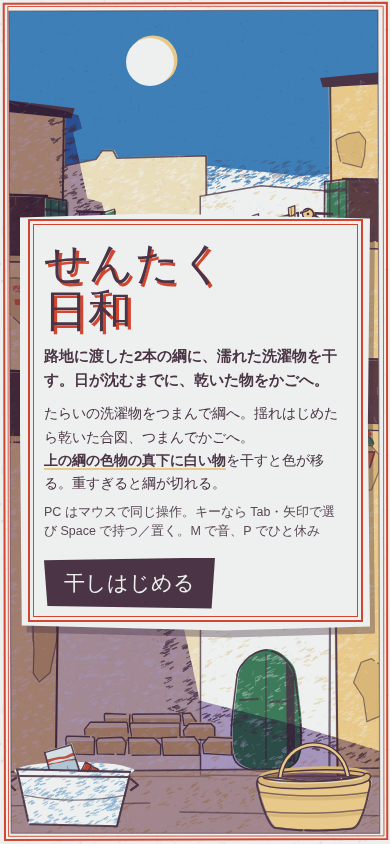
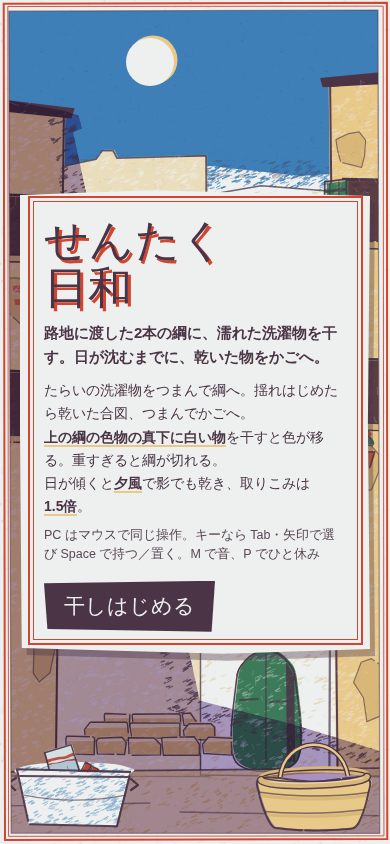
arcade: 008 差し戻し修正（2回目の監査中）
Claude-Session: https://claude.ai/code/session_01QkUvG7rhwuqzh5G9T4Jq1S

Changed region(s): [[0.0308, 0.2156, 0.9846, 0.8009], [0.7385, 0.8934, 0.8923, 0.9242]]

diff --git a/arcade/games/008-alley-laundry/index.html b/arcade/games/008-alley-laundry/index.html
@@ -29,6 +29,8 @@ canvas#c{position:fixed;inset:0;width:100%;height:100%;display:block;touch-actio
 #scoreW .tag{padding:12px 16px 11px 15px;min-width:118px}
 #cnt{font-size:13px;line-height:1.2;font-weight:700;font-variant-numeric:tabular-nums;white-space:nowrap}
 #score{font-family:var(--head);font-size:30px;line-height:1.05;font-variant-numeric:tabular-nums;letter-spacing:-.01em}
+#eveB{display:inline-block;margin-top:4px;font-family:var(--head);font-size:13px;color:var(--shiro);background:var(--sumire);padding:2px 8px 3px;transform:rotate(-2deg)}
+#eveB[hidden]{display:none}
 #score small{font-family:var(--body);font-size:14px;font-weight:700;margin-left:3px}
 #hintW{transform:rotate(-1deg);transition:opacity .25s;max-width:min(250px,64vw)}
 #hintW.off{opacity:0}
@@ -66,7 +68,8 @@ canvas#c{position:fixed;inset:0;width:100%;height:100%;display:block;touch-actio
 .best{font-size:14px;font-weight:700;font-variant-numeric:tabular-nums}
 #rTitle{font-family:var(--head);font-size:28px;line-height:1.15;text-shadow:2px 2px 0 var(--tomato)}
 #rWhy{font-size:13.5px;margin-top:6px;line-height:1.5}
-#pile{display:block;width:100%;height:170px;margin-top:6px}
+#pile{display:block;width:100%;height:190px;margin-top:6px}
+body.wide #pile{height:170px}
 #rScore{font-family:var(--head);font-size:46px;line-height:1;font-variant-numeric:tabular-nums}
 #rScore small{font-family:var(--body);font-size:17px;font-weight:700;margin-left:4px}
 #rList{font-size:13.5px;line-height:1.6;margin-top:6px;font-variant-numeric:tabular-nums}
@@ -82,7 +85,7 @@ body.wide .cols{display:grid;grid-template-columns:1fr 1fr;gap:4px 20px;align-it
 <canvas id="c" aria-label="路地の物干し"></canvas>
 <div id="hud" hidden>
   <div class="tagw" id="scoreW"><svg class="pin" style="left:54px" viewBox="0 0 9 22"><path d="M1.2 1 7.6 .6 8 21 1 21.4Z" fill="#e8c98a" stroke="#4a3446" stroke-width="1.3"/><path d="M4.5 1.5V20.5" stroke="#4a3446" stroke-width=".8" opacity=".7"/><path d="M.5 9q4 2.6 8 0" stroke="#4a3446" stroke-width="1.4" fill="none"/></svg>
-    <div class="tag"><div id="cnt">取りこみ 0まい</div><div id="score">0<small>てん</small></div></div></div>
+    <div class="tag"><div id="cnt">取りこみ 0まい</div><div id="score">0<small>てん</small></div><div id="eveB" hidden>夕方 ×1.5</div></div></div>
   <div class="tagw off" id="hintW"><div class="tag" id="hint"></div></div>
   <div class="tagw" id="muteW"><button class="tbtn" id="muteB" aria-label="音を消す（M）">おと</button></div>
   <div class="tagw" id="pauseW"><svg class="pin" style="left:36px" viewBox="0 0 9 22"><path d="M1 .8 7.8 1 7.4 21.2 1.3 21Z" fill="#e8c98a" stroke="#4a3446" stroke-width="1.3"/><path d="M4.5 1.5V20.5" stroke="#4a3446" stroke-width=".8" opacity=".7"/><path d="M.5 9q4 2.6 8 0" stroke="#4a3446" stroke-width="1.4" fill="none"/></svg><button class="tbtn" id="pauseB" aria-label="ひと休み（P）">ひと休み</button></div>
@@ -95,7 +98,7 @@ body.wide .cols{display:grid;grid-template-columns:1fr 1fr;gap:4px 20px;align-it
       <h1 class="logo">せんたく<br>日和</h1>
       <p class="lead">路地に渡した2本の綱に、濡れた洗濯物を干す。日が沈むまでに、乾いた物をかごへ。</p>
     </div><div>
-      <p class="how">たらいの洗濯物をつまんで綱へ。揺れはじめたら乾いた合図、つまんでかごへ。<br><b>上の綱の色物の真下に白い物</b>を干すと色が移る。重すぎると綱が切れる。</p>
+      <p class="how">たらいの洗濯物をつまんで綱へ。揺れはじめたら乾いた合図、つまんでかごへ。<br><b>上の綱の色物の真下に白い物</b>を干すと色が移る。重すぎると綱が切れる。<br>日が傾くと<b>夕風</b>で影でも乾き、取りこみは<b style="white-space:nowrap">1.5倍</b>。</p>
       <p class="keys">PC はマウスで同じ操作。キーなら Tab・矢印で選び Space で持つ／置く。M で音、P でひと休み</p>
     </div></div>
     <div class="row"><button class="go" id="startB">干しはじめる</button><span class="best" id="tBest"></span></div>
@@ -134,7 +137,10 @@ const SIM = (() => {
     { x1: 84, y1: 222, x2: 308, y2: 210 },
     { x1: 80, y1: 400, x2: 312, y2: 393 },
   ];
-  const LIM = 10.5;        // 1本の綱が耐えられる濡れ物の重さ
+  const LIM = 8.8;         // 1本の綱が耐えられる濡れ物の重さ
+  const EVE = 80;          // 夕方（夕風・夕方の取り込み）が始まる時刻
+  const TUB_END = 92;      // これより後はたらいが空（最後の取り込みに集中）
+  const EVE_MUL = 1.5;     // 夕方に取り込んだ物の点の倍率（切り上げ）
   const RESTRING = 10;     // 切れた綱の張り直し（秒）
   const PEN_GAP = 1.2;     // 操作と無関係の罰どうしの間（秒）
   const KINDS = {
@@ -185,7 +191,7 @@ const SIM = (() => {
   function create(seed) {
     const S = { r: (seed % 2147483646) + 1, t: 0, dur: DUR, nid: 0, lastKinds: [], over: false, endReason: "",
       ropes: [{ items: [], broken: false, restring: 0, strain: 0 }, { items: [], broken: false, restring: 0, strain: 0 }],
-      tub: { queue: [], wait: 0 }, held: null, score: 0, combo: 0, delivered: [], fallen: 0, blown: 0, stainedN: 0,
+      tub: { queue: [], wait: 0, empty: false }, eve: false, held: null, score: 0, combo: 0, delivered: [], fallen: 0, blown: 0, stainedN: 0,
       pigeons: [], pigT: 9, lastPen: -9, grace: 0, ev: [], log: [], quiet: false };
     S.tub.queue.push(newItem(S), newItem(S));
     return S;
@@ -238,7 +244,7 @@ const SIM = (() => {
   function pickTub(S) {
     if (S.held || S.over || S.tub.wait > 0 || !S.tub.queue.length) return null;
     const it = S.tub.queue.shift(); it.from = { tub: true }; S.held = it; S.tub.wait = 0.45;
-    while (S.tub.queue.length < 2) S.tub.queue.push(newItem(S));
+    while (!S.tub.empty && S.tub.queue.length < 2) S.tub.queue.push(newItem(S));
     emit(S, { type: "pick", id: it.id, tub: true });
     return it;
   }
@@ -269,16 +275,19 @@ const SIM = (() => {
   function deliver(S) {
     const it = S.held; if (!it || it.wet > 0) return false;
     S.held = null;
-    const pts = it.stained ? 0 : it.pt;
+    const evening = S.t >= EVE;
+    const pts = it.stained ? 0 : evening ? Math.ceil(it.pt * EVE_MUL) : it.pt;
     S.score += pts; S.delivered.push(it);
     if (it.stained) S.combo = 0; else S.combo++;
-    emit(S, { type: "deliver", id: it.id, pts, stained: it.stained, kind: it.kind });
+    emit(S, { type: "deliver", id: it.id, pts, stained: it.stained, kind: it.kind, eve: evening && !it.stained });
     // 5枚続けて色移りなし → おばあさんの拍手（続くほど大きい）
     if (!it.stained && S.combo > 0 && S.combo % 5 === 0) { const b = S.combo / 5 + 1; S.score += b; emit(S, { type: "grandma", n: S.combo, bonus: b }); }
     return true;
   }
   // 海からの風は時間とともに強まる: よく乾くが、乾いた物を放っておくと飛ばされやすい
   function windDry(p) { return 0.5 + 2.0 * p; }
+  // 夕風: 日なたが細くなる代わりに、影の中でも風で乾く（終盤ほど速い）
+  function eveK(t) { return clamp((t - EVE) / (DUR - EVE), 0, 1); }
   function flutterTime(p) { return 9 - 4.5 * p; }
 
   function snap(S, r) {
@@ -297,6 +306,9 @@ const SIM = (() => {
     S.t += dt;
     const p = clamp(S.t / DUR, 0, 1);
     if (S.tub.wait > 0) S.tub.wait -= dt;
+    if (!S.eve && S.t >= EVE) { S.eve = true; emit(S, { type: "evening" }); }
+    // たらいが空になる（まだ手に取っていない物は今日の分はおしまい。戻した物は残す）
+    if (!S.tub.empty && S.t >= TUB_END) { S.tub.empty = true; S.tub.queue = S.tub.queue.filter((it) => it.from); emit(S, { type: "tubEmpty" }); }
     for (let r = 0; r < 2; r++) {
       const R = S.ropes[r];
       if (R.broken) { R.restring -= dt; if (R.restring <= 0) { R.broken = false; emit(S, { type: "restrung", rope: r }); } continue; }
@@ -304,7 +316,8 @@ const SIM = (() => {
         const it = R.items[i];
         if (it.wet > 0) {
           const sun = sunFrac(S, it);
-          it.wet -= dt * (1 / it.dry) * (0.2 + 0.8 * sun) * windDry(p) * (it.pegs < 2 ? 0.45 : 1);
+          const shade = S.t >= EVE ? 0.45 + 0.25 * eveK(S.t) : 0.2;
+          it.wet -= dt * (1 / it.dry) * (shade + (1 - shade) * sun) * windDry(p) * (it.pegs < 2 ? 0.45 : 1);
           if (it.wet <= 0) { it.wet = 0; it.dryFor = 0; emit(S, { type: "dried", id: it.id }); }
         } else {
           it.dryFor += dt;
@@ -331,7 +344,7 @@ const SIM = (() => {
           if (overlaps(U.x + 4, U.x + U.w - 4, L.x, L.x + L.w) > 0) {
             if (L.stain === 0) emit(S, { type: "stainStart", id: L.id, from: U.id });
             L.stain += dt * 0.34 * Math.min(1, U.wet); L.stainCol = U.col;
-            if (L.stain >= 1) { L.stain = 1; L.stained = true; S.stainedN++; emit(S, { type: "stained", id: L.id, pen: true }); break; }
+            if (L.stain >= 1) { L.stain = 1; L.stained = true; S.stainedN++; S.lastPen = S.t; emit(S, { type: "stained", id: L.id, pen: true }); break; }
           }
         }
       }
@@ -369,7 +382,7 @@ const SIM = (() => {
       else end(S, "sunset");
     }
   }
-  return { W, H, DUR, ROPES, LIM, KINDS, STEPS, clamp, edgeX, edgeBase, sunFrac, load, ropeLoad, create, step, canPlace, place, pickTub, pickHung, cancel, toTub, deliver, freeSpot, pigeonAt, flutterTime, ropeMidY };
+  return { EVE, TUB_END, EVE_MUL, eveK, W, H, DUR, ROPES, LIM, KINDS, STEPS, clamp, edgeX, edgeBase, sunFrac, load, ropeLoad, create, step, canPlace, place, pickTub, pickHung, cancel, toTub, deliver, freeSpot, pigeonAt, flutterTime, ropeMidY };
 })();
 // </sim>
 
@@ -954,7 +967,7 @@ const SIM = (() => {
 
   // ---- 亜鉛のたらい（濡れかご）と籐のかご ----
   const TUB = { x: 18, y: 770, w: 112, h: 56 }, BASK = { x: 264, y: 774, w: 100, h: 54 };
-  let tubLook = null, baskLook = null;
+  let tubLook = null, baskLook = null; const baskCache = { key: null, c: null, r: null };
   function drawTub(g) {
     const { x, y, w, h } = TUB;
     if (!tubLook) { seed(61); tubLook = { body: cutP([[x, y], [x + w, y + 2], [x + w - 12, y + h], [x + 10, y + h - 1]], 1), rim: blobPts(x + w / 2, y + 1, w / 2 + 3, 9, 16, 0.03) }; tubLook.bd = mkDash(perim(tubLook.body)); }
@@ -984,35 +997,43 @@ const SIM = (() => {
       const [w0, h0, c, striped] = PILE[e.kind]; const w = w0 * k, h = h0 * k;
       const xx = x - w / 2 + J(4 * k) + (i % 2 ? 4 : -3) * k, sag = (1.5 + R() * 1.5) * k;
       const pts = [[xx + 3, yy - h], [xx + w * 0.5, yy - h - sag], [xx + w - 3, yy - h + 0.5], [xx + w + 2.5 * k, yy - h * 0.5], [xx + w - 2, yy], [xx + w * 0.5, yy + 1], [xx + 2, yy], [xx - 1.5 * k, yy - h * 0.5]];
+      // 影版の平網を下の布へ落とす（ぼかさず、同じ形をずらして multiply）
+      fillPts(g, pts, C.kage, 2.5 * k, 2 * k, 0.7, true, true);
       fillPts(g, pts, c, 1.5, -1, 1, false, true);
-      if (striped === 1) { g.save(); smoothTo(g, pts); g.clip(); g.fillStyle = C.tomato; g.fillRect(xx, yy - h * 0.62, w, h * 0.16); g.fillStyle = C.midori; g.fillRect(xx, yy - h * 0.3, w, h * 0.1); g.restore(); }
-      if (striped === 2) { g.save(); smoothTo(g, pts); g.clip(); g.fillStyle = C.tomato; g.fillRect(xx - 4, yy - h - 4, w + 8, h * 0.22 + 4); g.restore(); } // 靴下は赤い細い縁だけ見せる
-      if (e.stained) { g.save(); smoothTo(g, pts); g.clip(); fillPts(g, blobPts(xx + w * 0.35, yy - h * 0.5, w * 0.16, h * 0.42, 8, 0.2), e.stainCol === "b" ? C.gunjo : C.tomato, 0, 0, 0.4, false, true); g.restore(); }
-      if (c === C.shiro) { smoothTo(g, pts); grain(g, "gShiro", 0.5); }
-      line(g, [[xx + w * 0.62, yy - h + 2], [xx + w * 0.63, yy - h * 0.5], [xx + w * 0.62, yy - 3]], 1, C.sumire, 0.5);
+      const P = new Path2D(); smoothTo(P, pts);
+      g.save(); g.clip(P);
+      // 折り目の下側（布の裏へ回り込む所）は影版の平網で一段沈める
+      fillPts(g, [[xx - 6, yy - h * 0.34], [xx + w * 0.5, yy - h * 0.3 + J(1)], [xx + w + 6, yy - h * 0.38], [xx + w + 6, yy + 4], [xx - 6, yy + 4]], C.kage, 0, 0, c === C.shiro ? 0.42 : 0.3, true);
+      if (c === C.gunjo) grain(g, "gGunjo", 0.9, 1.5, -1, P);
+      else grain(g, "gGunjo", 0.14, 1.5, -1, P); // 青み付けの白（暗い擦れは乗せない）
+      if (striped === 1) { g.fillStyle = C.tomato; g.fillRect(xx, yy - h * 0.66, w, h * 0.16); g.fillStyle = C.midori; g.fillRect(xx, yy - h * 0.36, w, h * 0.1); }
+      if (striped === 2) { g.fillStyle = C.tomato; g.fillRect(xx - 4, yy - h - 4, w + 8, h * 0.3 + 4); g.fillStyle = C.shiro; g.fillRect(xx - 4, yy - h * 0.62, w + 8, h * 0.08); }
+      if (e.kind === "jeans") { g.save(); g.setLineDash([3 * k, 2.5 * k]); line(g, [[xx + 4, yy - h * 0.55], [xx + w * 0.5, yy - h * 0.52], [xx + w - 3, yy - h * 0.57]], 1.1 * k, C.odo, 0.95); g.restore(); }
+      if (e.kind === "shirt" || e.kind === "shirtB") {
+        line(g, [[xx + w * 0.36, yy - h - 2], [xx + w * 0.5, yy - h * 0.45], [xx + w * 0.64, yy - h - 2]], 1.2 * k, C.sumire, 0.75);
+        for (let b = 0; b < 2; b++) fillPts(g, blobPts(xx + w * 0.5 + 0.5, yy - h * (0.3 - b * 0.18) + 1, 1.3 * k, 1.1 * k, 6, 0.1), c === C.gunjo ? C.shiro : C.sumire, 0, 0, 0.8);
+      }
+      if (e.kind === "sheet") line(g, [[xx + 5, yy - h * 0.52], [xx + w * 0.4, yy - h * 0.5 + J(1)], [xx + w - 6, yy - h * 0.55]], 1, C.sumire, 0.45);
+      if (e.stained) fillPts(g, blobPts(xx + w * 0.35, yy - h * 0.5, w * 0.16, h * 0.42, 8, 0.2), e.stainCol === "b" ? C.gunjo : C.tomato, 0, 0, 0.45, false, true);
+      g.restore();
+      line(g, [[xx + w * 0.78, yy - h + 2], [xx + w * 0.79, yy - h * 0.5], [xx + w * 0.78, yy - 3]], 1, C.sumire, 0.5);
       inkPts(g, pts, 1.5 * Math.min(1.4, k), 0.92, true, true);
       yy -= h - 3 * k;
     });
   }
-  function drawBasket(g) {
-    const { x, y, w, h } = BASK;
-    if (!baskLook) {
-      seed(62);
-      // 胴は縁の下でいったん少しふくらみ、底へ丸くすぼまる（箱の台形にしない）
-      baskLook = { body: [[x - 1, y + 4], [x + w * 0.5, y + 7], [x + w + 1, y + 3], [x + w + 3, y + h * 0.4], [x + w - 7, y + h - 4], [x + w - 20, y + h + 1], [x + w * 0.5, y + h + 3], [x + 19, y + h + 1], [x + 7, y + h - 4], [x - 4, y + h * 0.4]].map(([a, b]) => [a + J(0.8), b + J(0.8)]),
-        bands: [0.38 + J(0.04), 0.7 + J(0.05)], bj: [J(2), J(2), J(2), J(2)] };
-      const tmp = new Path2D(); smoothTo(tmp, baskLook.body); baskLook.bd = mkDash(perim(baskLook.body));
-    }
-    const t = baskLook;
-    // 縁の奥側の巻きと、かごの中の暗がり
-    g.save(); g.beginPath(); g.ellipse(x + w / 2, y + 3, w / 2 + 3, 7, -0.03, Math.PI, 0); g.lineWidth = 7; g.strokeStyle = C.shita; g.stroke(); g.lineWidth = 1.4; g.strokeStyle = C.sumire; g.stroke(); g.restore();
-    fillPts(g, blobPts(x + w / 2, y + 4, w / 2, 5.5, 14, 0.03), C.kage, 0, 0, 1, true, true);
-    // 取っ手（付け根を縁の内側に差し込む）
-    for (const [cw, cc] of [[5, C.sumire], [2.4, C.odo]]) { g.save(); g.strokeStyle = cc; g.lineWidth = cw; g.beginPath(); g.moveTo(x + 16, y + 4); g.bezierCurveTo(x + 20, y - 38, x + w - 24, y - 42, x + w - 16, y + 2); g.stroke(); g.restore(); }
-    // 中のたたんだ山（取り込んだ最後の数枚。縁の上に2枚分以上の折り山が見える）
-    const list = S ? S.delivered.slice(-4) : [];
-    if (list.length) foldedPile(g, x + w / 2 + 2, y + 10, list, 0.95);
-    // 胴: 高さ不揃いの帯2本が胴のふくらみに沿って弧を描く（編み目は描かない）
+  function wickerLook(x, y, w, h, sd0) {
+    seed(sd0);
+    const t = { body: [[x - 1, y + 4], [x + w * 0.5, y + 7], [x + w + 1, y + 3], [x + w + 3, y + h * 0.4], [x + w - 7, y + h - 4], [x + w - 20, y + h + 1], [x + w * 0.5, y + h + 3], [x + 19, y + h + 1], [x + 7, y + h - 4], [x - 4, y + h * 0.4]].map(([a, b]) => [a + J(0.8), b + J(0.8)]),
+      bands: [0.38 + J(0.04), 0.7 + J(0.05)], bj: [J(2), J(2), J(2), J(2)] };
+    t.bd = mkDash(perim(t.body));
+    return t;
+  }
+  // 籐かご: 胴は縁の下でいったん少しふくらみ、底へ丸くすぼまる（箱の台形にしない）。inner() で中身を描く
+  function drawWicker(g, x, y, w, h, t, inner, handle = true, ry = 7) {
+    g.save(); g.beginPath(); g.ellipse(x + w / 2, y + 3, w / 2 + 3, ry, -0.03, Math.PI, 0); g.lineWidth = 7; g.strokeStyle = C.shita; g.stroke(); g.lineWidth = 1.4; g.strokeStyle = C.sumire; g.stroke(); g.restore();
+    fillPts(g, blobPts(x + w / 2, y + 4, w / 2, ry - 1.5, 14, 0.03), C.kage, 0, 0, 1, true, true);
+    if (handle) for (const [cw, cc] of [[5, C.sumire], [2.4, C.odo]]) { g.save(); g.strokeStyle = cc; g.lineWidth = cw; g.beginPath(); g.moveTo(x + 16, y + 4); g.bezierCurveTo(x + 20, y - 38, x + w - 24, y - 42, x + w - 16, y + 2); g.stroke(); g.restore(); }
+    if (inner) inner();
     const p = new Path2D(); smoothTo(p, t.body);
     g.save(); g.translate(1.5, -1); g.fillStyle = C.odo; g.fill(p); g.restore();
     g.save(); g.clip(p);
@@ -1026,10 +1047,27 @@ const SIM = (() => {
     strokeInk(g, p, 2, 0.92, t.bd);
     // 縁の手前側の太い巻き（2度刷りの黄土＋すみれ茶の帯）
     g.save(); g.lineCap = "round";
-    g.beginPath(); g.ellipse(x + w / 2, y + 4, w / 2 + 3, 7, -0.03, 0.05, Math.PI - 0.05); g.lineWidth = 8.5; g.strokeStyle = C.sumire; g.globalAlpha = 0.92; g.stroke();
+    g.beginPath(); g.ellipse(x + w / 2, y + 4, w / 2 + 3, ry, -0.03, 0.05, Math.PI - 0.05); g.lineWidth = 8.5; g.strokeStyle = C.sumire; g.globalAlpha = 0.92; g.stroke();
     g.globalAlpha = 1; g.lineWidth = 5.5; g.strokeStyle = C.shita; g.stroke();
-    g.beginPath(); g.ellipse(x + w / 2 + 1, y + 3, w / 2 + 2, 6, -0.03, 0.4, Math.PI - 0.5); g.lineWidth = 1; g.strokeStyle = C.shiro; g.globalAlpha = 0.7; g.stroke();
+    g.beginPath(); g.ellipse(x + w / 2 + 1, y + 3, w / 2 + 2, ry - 1, -0.03, 0.4, Math.PI - 0.5); g.lineWidth = 1; g.strokeStyle = C.shiro; g.globalAlpha = 0.7; g.stroke();
     g.restore();
+  }
+  function drawBasket(g) {
+    const { x, y, w, h } = BASK;
+    if (!baskLook) baskLook = wickerLook(x, y, w, h, 62);
+    // 中のたたんだ山（取り込んだ最後の数枚。縁の上に2枚分以上の折り山が見える）
+    // かごは中身が変わったときだけ描き直す（毎フレームは作り置きを貼るだけ）
+    const list = S ? S.delivered.slice(-4) : [], k = scale * dpr;
+    const key = k + ":" + list.map((e) => e.id).join(",");
+    if (baskCache.key !== key) {
+      const bx = x - 24, by = y - 64, bw = w + 48, bh = h + 76;
+      if (!baskCache.c) baskCache.c = document.createElement("canvas");
+      const c = baskCache.c; c.width = Math.ceil(bw * k); c.height = Math.ceil(bh * k);
+      const b = c.getContext("2d"); b.setTransform(k, 0, 0, k, -bx * k, -by * k);
+      drawWicker(b, x, y, w, h, baskLook, () => { if (list.length) foldedPile(b, x + w / 2 + 2, y + 10, list, 0.95); });
+      baskCache.key = key; baskCache.r = [bx, by, bw, bh];
+    }
+    g.drawImage(baskCache.c, ...baskCache.r);
     if (selId === "basket" && kbMode) focusRing(g, x - 6, y - 40, w + 12, h + 46);
   }
 
@@ -1319,6 +1357,7 @@ const SIM = (() => {
     state = "play"; paused = false; drag = null; kbHold = null; ghost = null; lastTarget = null; selId = "tub";
     drips.length = 0; fallers.length = 0; fx.length = 0; grandma.t = -1; said.clear();
     for (const m of disp) m.clear();
+    $("eveB").hidden = true;
     $("titleS").hidden = true; $("resultS").hidden = true; $("pauseS").hidden = true; $("hud").hidden = false;
     hint("たらいの洗濯物をつまんで、綱へ", 3.5);
     updateHud();
@@ -1346,18 +1385,30 @@ const SIM = (() => {
   }
   function drawPileResult() {
     const pc = $("pile"), k = Math.min(2, window.devicePixelRatio || 1);
-    const cw = pc.clientWidth || 300, ch = pc.clientHeight || 150;
+    const cw = pc.clientWidth || 300, ch = pc.clientHeight || 170;
     pc.width = cw * k; pc.height = ch * k;
     const g = pc.getContext("2d"); g.setTransform(k, 0, 0, k, 0, 0); g.clearRect(0, 0, cw, ch);
     const list = S.delivered.slice();
-    if (!list.length) { g.font = "700 14px " + getComputedStyle(document.body).fontFamily; g.fillStyle = C.sumire; g.fillText("かごは空っぽ", 14, ch / 2); return; }
-    // 2〜3山に分けて、たたんだ山を大きく
-    const nCol = list.length > 16 ? 3 : list.length > 7 ? 2 : 1;
-    const per = Math.ceil(list.length / nCol);
-    let hMax = 0; const cols = [];
-    for (let c = 0; c < nCol; c++) { const a = list.slice(c * per, (c + 1) * per); cols.push(a); hMax = Math.max(hMax, a.reduce((s, e) => s + PILE[e.kind][1] - 3, 3)); }
-    const k2 = Math.min(2.4, (ch - 10) / hMax, cw / nCol / 72);
-    cols.forEach((a, c) => foldedPile(g, cw * (c + 0.5) / nCol, ch - 6, a, k2));
+    // 白い札の上で白い布が埋もれないよう、大きな籐かごに入れて見せる（遊ぶ画面のかごと同じ描き方）
+    const bh = Math.min(62, ch * 0.34), bw = Math.min(cw - 44, 250), bx = (cw - bw) / 2, by = ch - bh - 6;
+    const look = wickerLook(bx, by, bw, bh, 97);
+    if (!list.length) {
+      drawWicker(g, bx, by, bw, bh, look, null, false, 10);
+      g.font = "700 14px " + getComputedStyle(document.body).fontFamily; g.fillStyle = C.sumire; g.fillText("かごは空っぽ", bx + 14, by - 14); return;
+    }
+    // 2〜3山に分けて、たたんだ山を大きく（色移りした物はしみのまま一番上へ）
+    list.sort((a, b) => (a.stained - b.stained));
+    const base = by + 18;
+    // 山の数は、布がいちばん大きく見える数を選ぶ
+    let nCol = 1, cols = [], k2 = 0;
+    for (let n = 1; n <= 4; n++) {
+      const per = Math.ceil(list.length / n), cs = [];
+      let hMax = 0;
+      for (let c = 0; c < n; c++) { const a = list.slice(c * per, (c + 1) * per); if (!a.length) continue; cs.push(a); hMax = Math.max(hMax, a.reduce((s, e) => s + PILE[e.kind][1] - 3, 3)); }
+      const kk = Math.min(2.4, (base - 6) / hMax, (bw - 20) / cs.length / 72);
+      if (kk > k2 + 0.05) { k2 = kk; nCol = cs.length; cols = cs; }
+    }
+    drawWicker(g, bx, by, bw, bh, look, () => cols.forEach((a, c) => foldedPile(g, bx + bw * (c + 0.5) / nCol + (c - (nCol - 1) / 2) * 4, base, a, k2)), false, 10);
   }
   function updateHud() {
     if (!S) return;
@@ -1372,6 +1423,7 @@ const SIM = (() => {
       switch (e.type) {
         case "deliver":
           sfx.fuwa(); fx.push({ x: BASK.x + BASK.w / 2, y: BASK.y - 30, t: 0, text: e.stained ? "色移り 0" : "+" + e.pts, red: e.stained });
+          if (e.eve) { tone(784 * pitch(), 0.16, "triangle", 0.06, 988 * pitch(), 0.08); hint("夕方の取りこみは1.5倍", 1.8, "eve2"); }
           if (e.stained) hint("色が移った物は点にならない", 2.4);
           updateHud(); break;
         case "grandma":
@@ -1399,6 +1451,10 @@ const SIM = (() => {
           kick[it.rope] += 1.2; break;
         }
         case "place": kick[e.rope] += 0.4; break;
+        case "evening":
+          grandma.t = 0; say("夕風やねえ、はよ取りこみ"); hint("影の中でも夕風で乾く。乾いた物から急いで", 3);
+          [523, 659, 784].forEach((f, i) => tone(f * pitch(), 0.3, "triangle", 0.07, null, i * 0.12, 1800)); $("eveB").hidden = false; break;
+        case "tubEmpty": hint("たらいが空になった。残りを全部取りこもう", 2.8); sfx.peg(); break;
         case "end": endT = 0; state = "ending"; sfx.sunset(); hint(e.why === "ropes" ? "綱が両方切れた" : "日が沈んだ", 3); break;
       }
     }
@@ -1429,12 +1485,7 @@ const SIM = (() => {
 
   // ---- 描画 ----
   let warnPg = null;
-  function draw() {
-    const g = ctx;
-    g.setTransform(1, 0, 0, 1, 0, 0);
-    g.fillStyle = C.sumire; g.fillRect(0, 0, cv.width, cv.height);
-    g.setTransform(dpr * scale, 0, 0, dpr * scale, dpr * ox, dpr * oy);
-    const p = S ? clamp(S.t / S.dur, 0, 1) : 0.3;
+  function drawBg(g, p) {
     g.drawImage(L.sky, 0, 0, W, H);
     const eve = clamp((p - 0.55) / 0.4, 0, 1);
     if (eve > 0) { // 夕方の版は地平から上へ刷り替わる（重ねて濁らせない）
@@ -1447,8 +1498,27 @@ const SIM = (() => {
       g.fillStyle = C.odo; g.beginPath(); g.arc(sx + 3, sy - 2, 24.5, 0, 7); g.fill();
       g.fillStyle = C.shiro; g.beginPath(); g.arc(sx, sy, 24, 0, 7); g.fill(); }
     g.drawImage(L.bld, 0, 0, W, H);
-    const edge = shadowEdge(p);
-    drawShadow(g, edge, 1);
+    g.restore();
+  }
+  function drawShadowOn(g, edge) { g.save(); g.clip(innerPath); drawShadow(g, edge, 1); g.restore(); }
+  function draw() {
+    const g = ctx;
+    g.setTransform(1, 0, 0, 1, 0, 0);
+    g.fillStyle = C.sumire; g.fillRect(0, 0, cv.width, cv.height);
+    g.setTransform(dpr * scale, 0, 0, dpr * scale, dpr * ox, dpr * oy);
+    const p0 = S ? clamp(S.t / S.dur, 0, 1) : 0.3;
+    // 空・太陽・家・影の1回目は、時刻が 1/400 進むごと（約0.25秒）にだけ作り置きを描き直す
+    const bk = Math.round(p0 * 400), kk = scale * dpr;
+    if (!L.bg || L.bgKey !== bk || L.bgK !== kk) {
+      if (!L.bg || L.bgK !== kk) [L.bg, L.bgG] = mkLayer();
+      const p = bk / 400, b = L.bgG;
+      b.save(); b.setTransform(1, 0, 0, 1, 0, 0); b.clearRect(0, 0, L.bg.width, L.bg.height); b.restore();
+      drawBg(b, p); L.bgKey = bk; L.bgK = kk; L.bgP = p; L.edge = shadowEdge(p);
+      drawShadowOn(b, L.edge);
+    }
+    const p = L.bgP, edge = L.edge;
+    g.drawImage(L.bg, 0, 0, W, H);
+    g.save(); g.clip(innerPath);
     // 綱と洗濯物（下の綱 → 上の綱）
     drawRope(g, 1); drawRope(g, 0);
     if (S) {

diff --git a/arcade/games/008-alley-laundry/plan.md b/arcade/games/008-alley-laundry/plan.md
@@ -38,6 +38,23 @@
 - 終わり方: 「3回失敗」ではなく、**日が沈むまで**（太陽が右の屋根に隠れるまで、約100秒）。日が傾くと日なたが細くなり、影が路地を満たしていく。両方の綱が同時に切れていたら、その時点で早じまい（終了）。
 - スコア: 取り込んだ乾いた洗濯物の枚数 × 重さ（靴下1・シャツ2・タオル2・ジーンズ3・シーツ5）。色移りした物は0点。日没の時点で綱に残っている物は、乾いていても点にならない（取り込むまでが洗濯）。
 - 結果画面: その日の乾いたかごの中身を、たたんだ山の絵で見せる。ベストはその端末に保存。
+- 夕方（残り20秒、監査 REVISE 後に追加）: 夕風が吹いて影の中でも乾くようになり（影の乾き 0.2 → 0.45〜0.7）、この間に取り込んだ物は **1.5倍（切り上げ）**。残り8秒でたらいが空になり、最後の取り込みに集中する。おばあさんの一言・札「夕方 ×1.5」・音で知らせる。
+- 綱の重さの上限は 10.5 → **8.8**（濡れ物の重さの合計。終盤の濡れたシーツ1枚で約7.7）。
+
+## 監査 REVISE 後の自動プレイ（2026-10-08、開発担当）
+4種のボット（即座＝重さ上限ぎりぎりまで置く／人想定＝反応0.35秒・運び0.5〜0.9秒・置き場所±12px・上限の92〜108%／全選択肢の最適＝置き場所すべてを14秒先まで試す・乱数は先読みしない／欲張り・雑＝重さ・しずく・鳩を見ずに日なたへ、きしんでも外さない）。即座・人想定・欲張りは40試合、最適は12試合。
+
+| ボット | 終了 | 得点 中央値 | 綱が切れた試合 | 早じまい | 最後の20秒の得点の割合 | 20秒ごとの得点（平均） | 日没時に綱に残った（中央値） |
+|---|---|---|---|---|---|---|---|
+| 欲張り・雑 | 全試合100秒 | 90 | **23/40** | 0/40 | 29% | 9 / 17 / 20 / 18 / **27** | 0 |
+| 即座 | 全試合100秒 | 123 | 0/40 | 0 | 32% | 9 / 20 / 29 / 24 / **39** | 0 |
+| 人想定 | 全試合100秒 | 80 | 0/40 | 0 | 34% | 4 / 15 / 16 / 17 / **27** | 0 |
+| 最適 | 全試合100秒 | 122 | 0/12（きしみは出るが乾いて戻す） | 0 | 33% | 11 / 19 / 27 / 20 / **38** | 1 |
+
+- 慎重すぎる人想定（上限の70〜86%で止める）は得点 68（ふつうの人想定 80）。上限を気にしすぎると点が伸びない
+- 操作と無関係の罰の同時発生（1秒以内）: 0。残る「同時」は1回の置き方で白い物2枚に色が移る・鳩の羽ばたきの後の色移りなど、同じ操作の結果だけ（色移りも罰の間隔に数えるようにして、色移りと綱切れが重ならないようにした）
+- 2倍解像度の fps（各13秒、昼〜夕方）: 390×844 で最低57・ほぼ60、844×390 で最低58、360×640 で最低57（修正前は同じ環境で 390×844 最低37）。籐かごとたたんだ山は中身が変わったときだけ、空・太陽・家・影の1回目は約0.25秒ごとにだけ作り置きを描き直す。毎フレームの `ctx.filter`・`shadowBlur` は無し
+
 
 ## 既存作との違い
 - 001〜007 は「タップ」「長押し」「スワイプ」「なぞり」「回転」「引っぱって離す」「押さえて離す」。本作は**物をつまんで別の場所へ置く**（ドラッグ&ドロップ）が主役で、置く場所の組み合わせ（段・日なた・重さ）を考えるパズル寄りの遊び。
